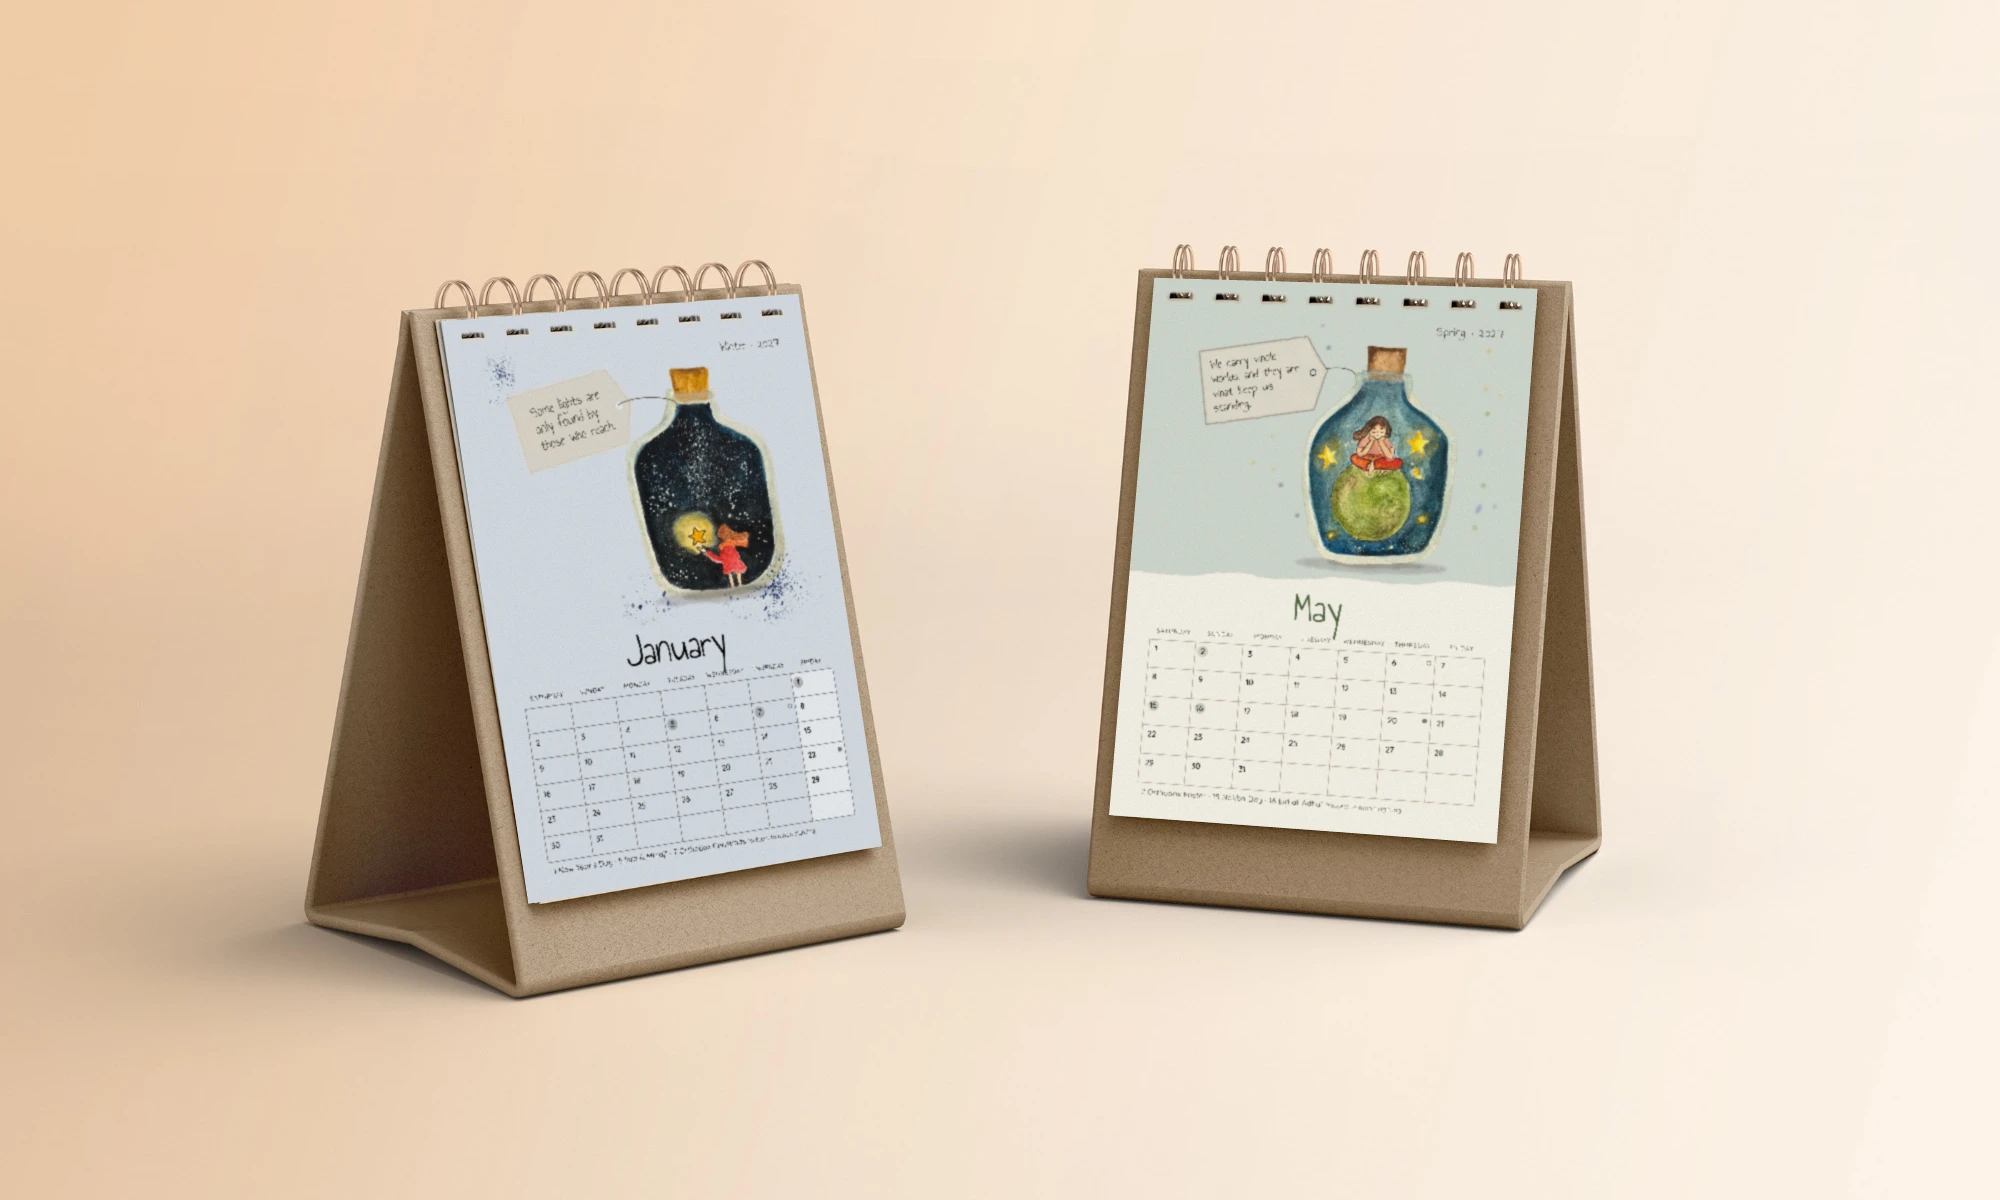
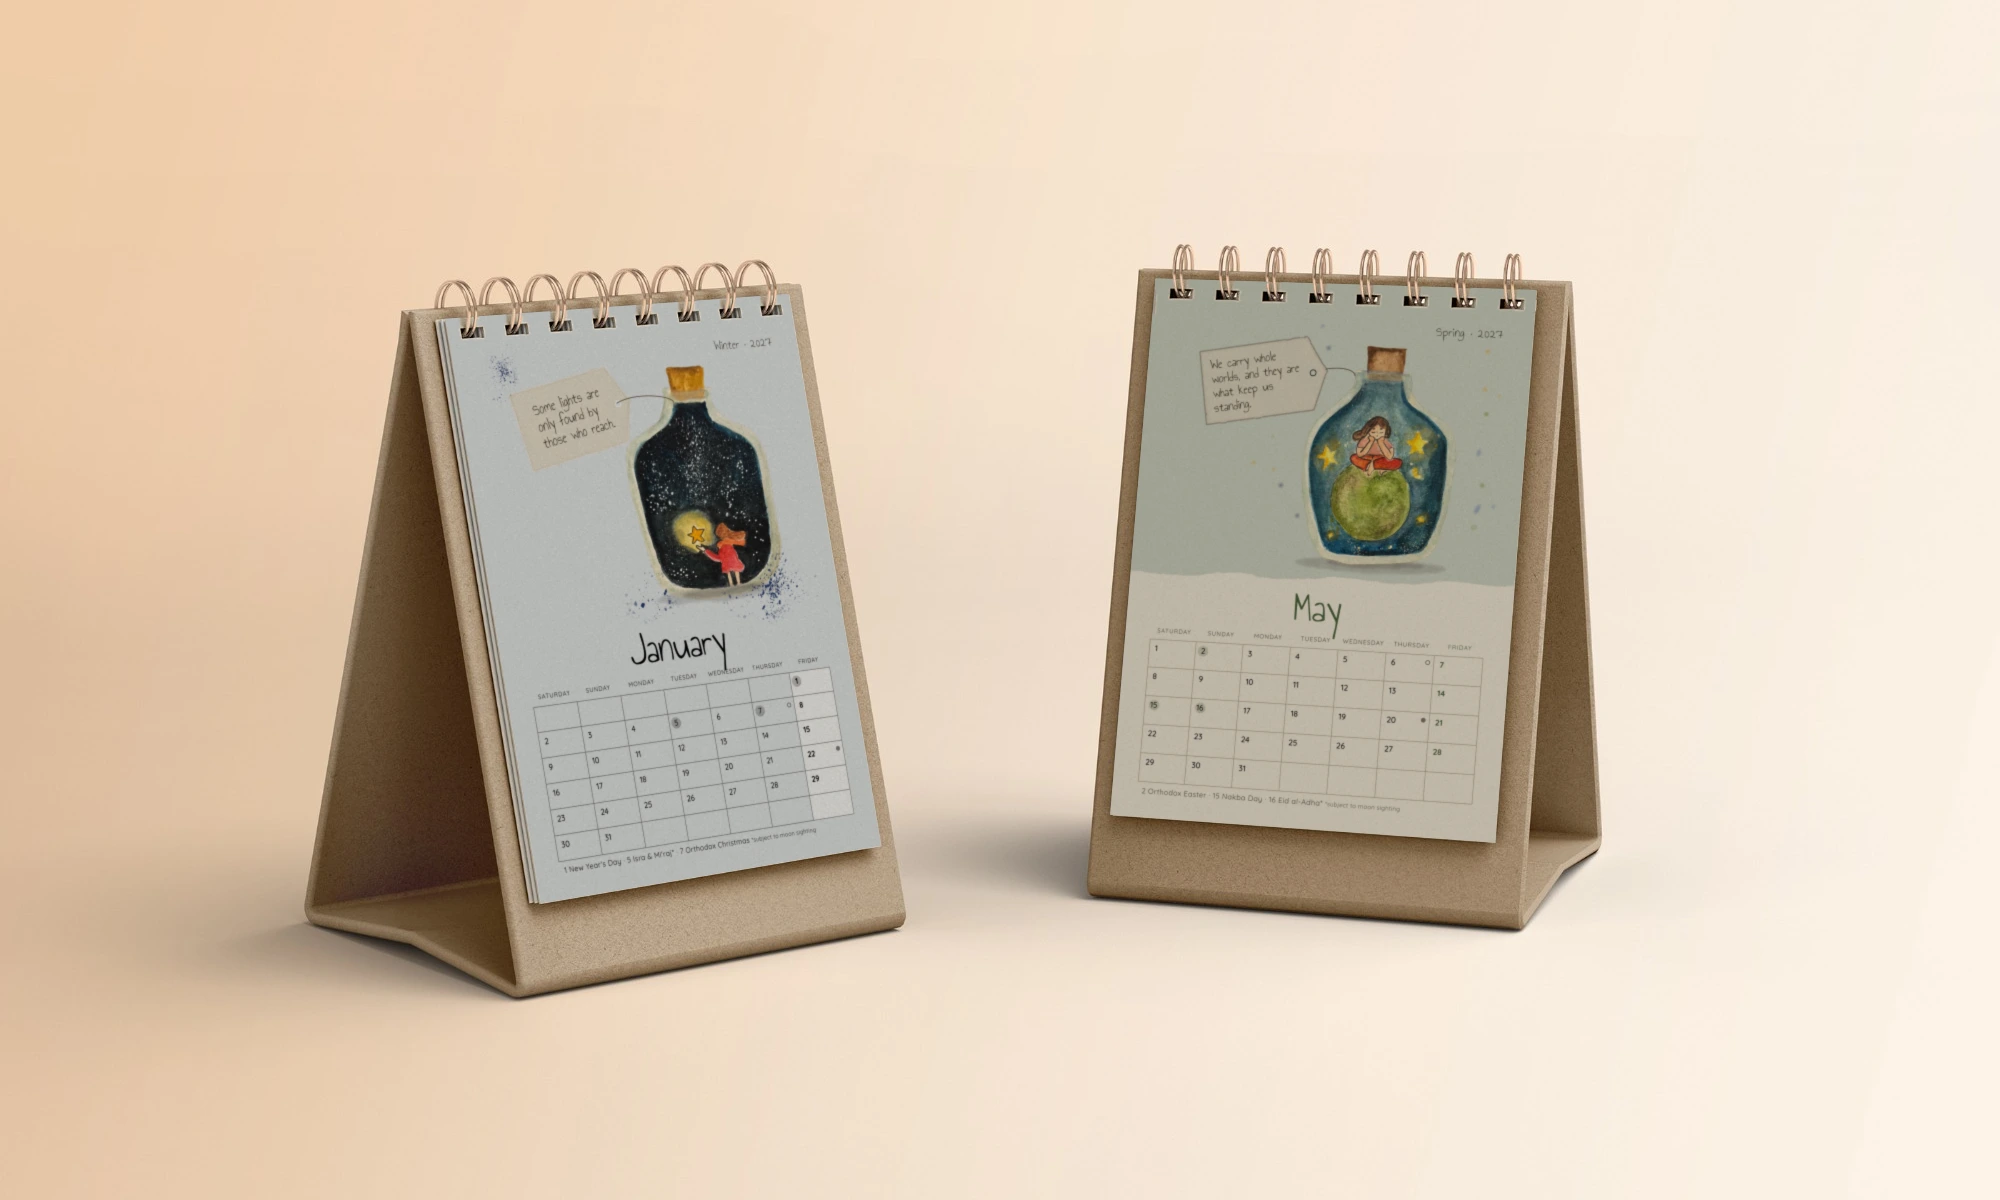
Kraft desk mockup redone: corners fitted to the photo's edges, printed on its paper and light, sheet stack kept
Claude-Session: https://claude.ai/code/session_011WuUMkvb8t9MEEabS5wD9n

Changed region(s): [[0.558, 0.2158, 0.775, 0.7092], [0.217, 0.2467, 0.465, 0.7708]]

diff --git a/tools/kraft-desk/comp.py b/tools/kraft-desk/comp.py
@@ -1,0 +1,58 @@
+# Our pages laid onto the kraft desk mockup (images/7.jpg): exact page corners (quad.py, edges fitted to the photo),
+# printed on the mockup's own paper (the page's white becomes the photo's paper colour and light), its grain and softness,
+# rings and punched holes kept from the photo.
+import cv2, numpy as np
+from scipy import ndimage
+ph=cv2.imread('../../images/7.jpg').astype(np.float32); H,W=ph.shape[:2]
+L=ph.mean(2); sat=ph.max(2)-ph.min(2)
+QL,QR=np.load('quads.npy')
+P='/tmp/claude-0/-home-user-Mass-Grass/3c3a7cf0-a5d3-55d4-bdc2-a4e0bc8d42f0/scratchpad/pdf27/'
+def mask_of(q,s=8):
+    m=np.zeros((H*s,W*s),np.uint8); cv2.fillPoly(m,[np.int32(np.round(np.array(q)*s))],255,lineType=cv2.LINE_AA)
+    return cv2.resize(m,(W,H),interpolation=cv2.INTER_AREA).astype(np.float32)/255
+def paper(q):
+    """the page's paper colour and light, a plane per channel fitted on its plain margins (top strip under the holes, bottom strip)"""
+    q=np.array(q); m=ndimage.binary_erosion(mask_of(q)>.99,iterations=6)
+    Y,X=np.mgrid[0:H,0:W].astype(np.float64)
+    def frac(p0,p1):   # distance down the page, 0 at the top edge, 1 at the bottom edge (by the two side midpoints)
+        top=(q[0]+q[1])/2; bot=(q[3]+q[2])/2; d=bot-top; return ((X-top[0])*d[0]+(Y-top[1])*d[1])/(d@d)
+    f=frac(0,0)
+    strip=m&(((f>.07)&(f<.13))|((f>.93)&(f<.985)))
+    cand=strip&(sat<32)
+    v=L[cand]; cand&=L>np.percentile(v,35)
+    cand&=~ndimage.binary_dilation((L<150)|(sat>40),iterations=3)      # keep clear of the old print's lines and colours
+    ys,xs=np.nonzero(cand); A=np.c_[np.ones(len(xs)),xs,ys].astype(np.float64)
+    k,*_=np.linalg.lstsq(A,L[ys,xs].astype(np.float64),rcond=None)
+    light=(k[0]+k[1]*X+k[2]*Y)/np.median(L[ys,xs])                       # the light across the page, as a gain
+    tint=np.median(ph[ys,xs],0); tint=tint.mean()*(.55+.45*tint/tint.mean())   # the paper's colour, half of its warmth (the art keeps its own colours)
+    out=(light[...,None]*tint[None,None,:]).astype(np.float32)
+    hp=(L-cv2.GaussianBlur(L,(0,0),1.5))[cand]; g=float(np.median(np.abs(hp))*1.4826)
+    print('paper RGB',out[int(ys.mean()),int(xs.mean())][::-1].round(),'grain',round(g,2),'n',len(xs))
+    return out,g
+def holes(q,d=34):
+    (x1,y1),(x2,y2)=q[0],q[1]; Y,X=np.mgrid[0:H,0:W]
+    dist=((X-x1)*(y2-y1)-(Y-y1)*(x2-x1))/np.hypot(x2-x1,y2-y1)
+    band=(np.abs(dist)<d)&(mask_of(q)>.5)
+    k=band&((L<150)|(sat>52))
+    k=ndimage.binary_closing(k,structure=np.ones((3,3)),iterations=3); k=ndimage.binary_fill_holes(k)
+    k=ndimage.binary_opening(k,structure=np.ones((2,2)))
+    k=ndimage.binary_dilation(k,iterations=1).astype(np.float32)
+    return cv2.GaussianBlur(k,(0,0),.7)
+def put(out,q,img,seed):
+    art=cv2.imread(img).astype(np.float32); h,w=art.shape[:2]; S=4
+    M=cv2.getPerspectiveTransform(np.float32([[0,0],[w,0],[w,h],[0,h]]),np.float32(np.array(q)*S))
+    big=cv2.warpPerspective(art,M,(W*S,H*S),flags=cv2.INTER_AREA,borderMode=cv2.BORDER_REPLICATE)
+    wa=cv2.resize(big,(W,H),interpolation=cv2.INTER_AREA)
+    pc,gsd=paper(q)
+    pr=wa/255.0*pc                                   # printed on that paper, in that light
+    pr=cv2.GaussianBlur(pr,(0,0),.55)                 # the photograph's softness
+    rng=np.random.default_rng(seed); n=cv2.GaussianBlur(rng.normal(0,1,(H,W)).astype(np.float32),(0,0),.6); n*=gsd/max(n.std(),1e-6)
+    pr=pr+n[...,None]
+    a=mask_of(q)*(1-holes(q))
+    return out*(1-a[...,None])+pr*a[...,None]
+out=put(ph.copy(),QL,P+'p01.png',3)
+out=put(out,QR,P+'p05.png',4)
+out=np.clip(out,0,255).astype(np.uint8); cv2.imwrite('desk2.png',out)
+o=cv2.imread('../../images/7.jpg')
+for n,b in {'L':(400,500,940,1220),'R':(1060,480,1620,1150)}.items():
+    x0,y0,x1,y1=b; cv2.imwrite('c2'+n+'.png',np.hstack([o[y0:y1,x0:x1],out[y0:y1,x0:x1]]))

diff --git a/tools/kraft-desk/quad.py b/tools/kraft-desk/quad.py
@@ -1,0 +1,28 @@
+import cv2, numpy as np
+ph=cv2.imread('../../images/7.jpg').astype(np.float32); L=cv2.GaussianBlur(ph.mean(2),(0,0),1.0)
+gy,gx=np.gradient(L)
+def side(p,q,n_in):
+    p=np.array(p,float); q=np.array(q,float); d=q-p; d/=np.linalg.norm(d); n=np.array([-d[1],d[0]])
+    if np.dot(n,n_in)<0: n=-n          # n points into the page
+    pts=[]
+    for t in np.linspace(.06,.94,120):
+        c=p+(q-p)*t; best=None
+        for s in np.arange(-12,12.01,.25):
+            x,y=c+n*s
+            g=cv2.getRectSubPix(gx,(1,1),(x,y))[0,0]*n[0]+cv2.getRectSubPix(gy,(1,1),(x,y))[0,0]*n[1]   # brightening into the page
+            if best is None or g>best[0]: best=(g,x,y)
+        if best[0]>6: pts.append(best[1:])
+    pts=np.float32(pts); vx,vy,x0,y0=cv2.fitLine(pts,cv2.DIST_HUBER,0,.01,.01).ravel()
+    return (x0,y0,vx,vy),len(pts)
+def inter(a,b):
+    x1,y1,vx1,vy1=a; x2,y2,vx2,vy2=b
+    A=np.array([[vx1,-vx2],[vy1,-vy2]]); t=np.linalg.solve(A,[x2-x1,y2-y1]); return (x1+vx1*t[0], y1+vy1*t[0])
+def refine(Q):
+    c=np.mean(Q,0); lines=[]
+    for i in range(4):
+        p,q=Q[i],Q[(i+1)%4]; m=(np.array(p)+np.array(q))/2; l,n=side(p,q,c-m); lines.append(l); print(' side',i,n)
+    return [inter(lines[i-1],lines[i]) for i in range(4)]
+QL=refine([(447,580),(786,557),(878,1105),(540,1159)])
+QR=refine([(1155,539),(1537,550),(1496,1102),(1112,1073)])
+print('QL',np.round(QL,1).tolist()); print('QR',np.round(QR,1).tolist())
+np.save('quads.npy',np.array([QL,QR]))
